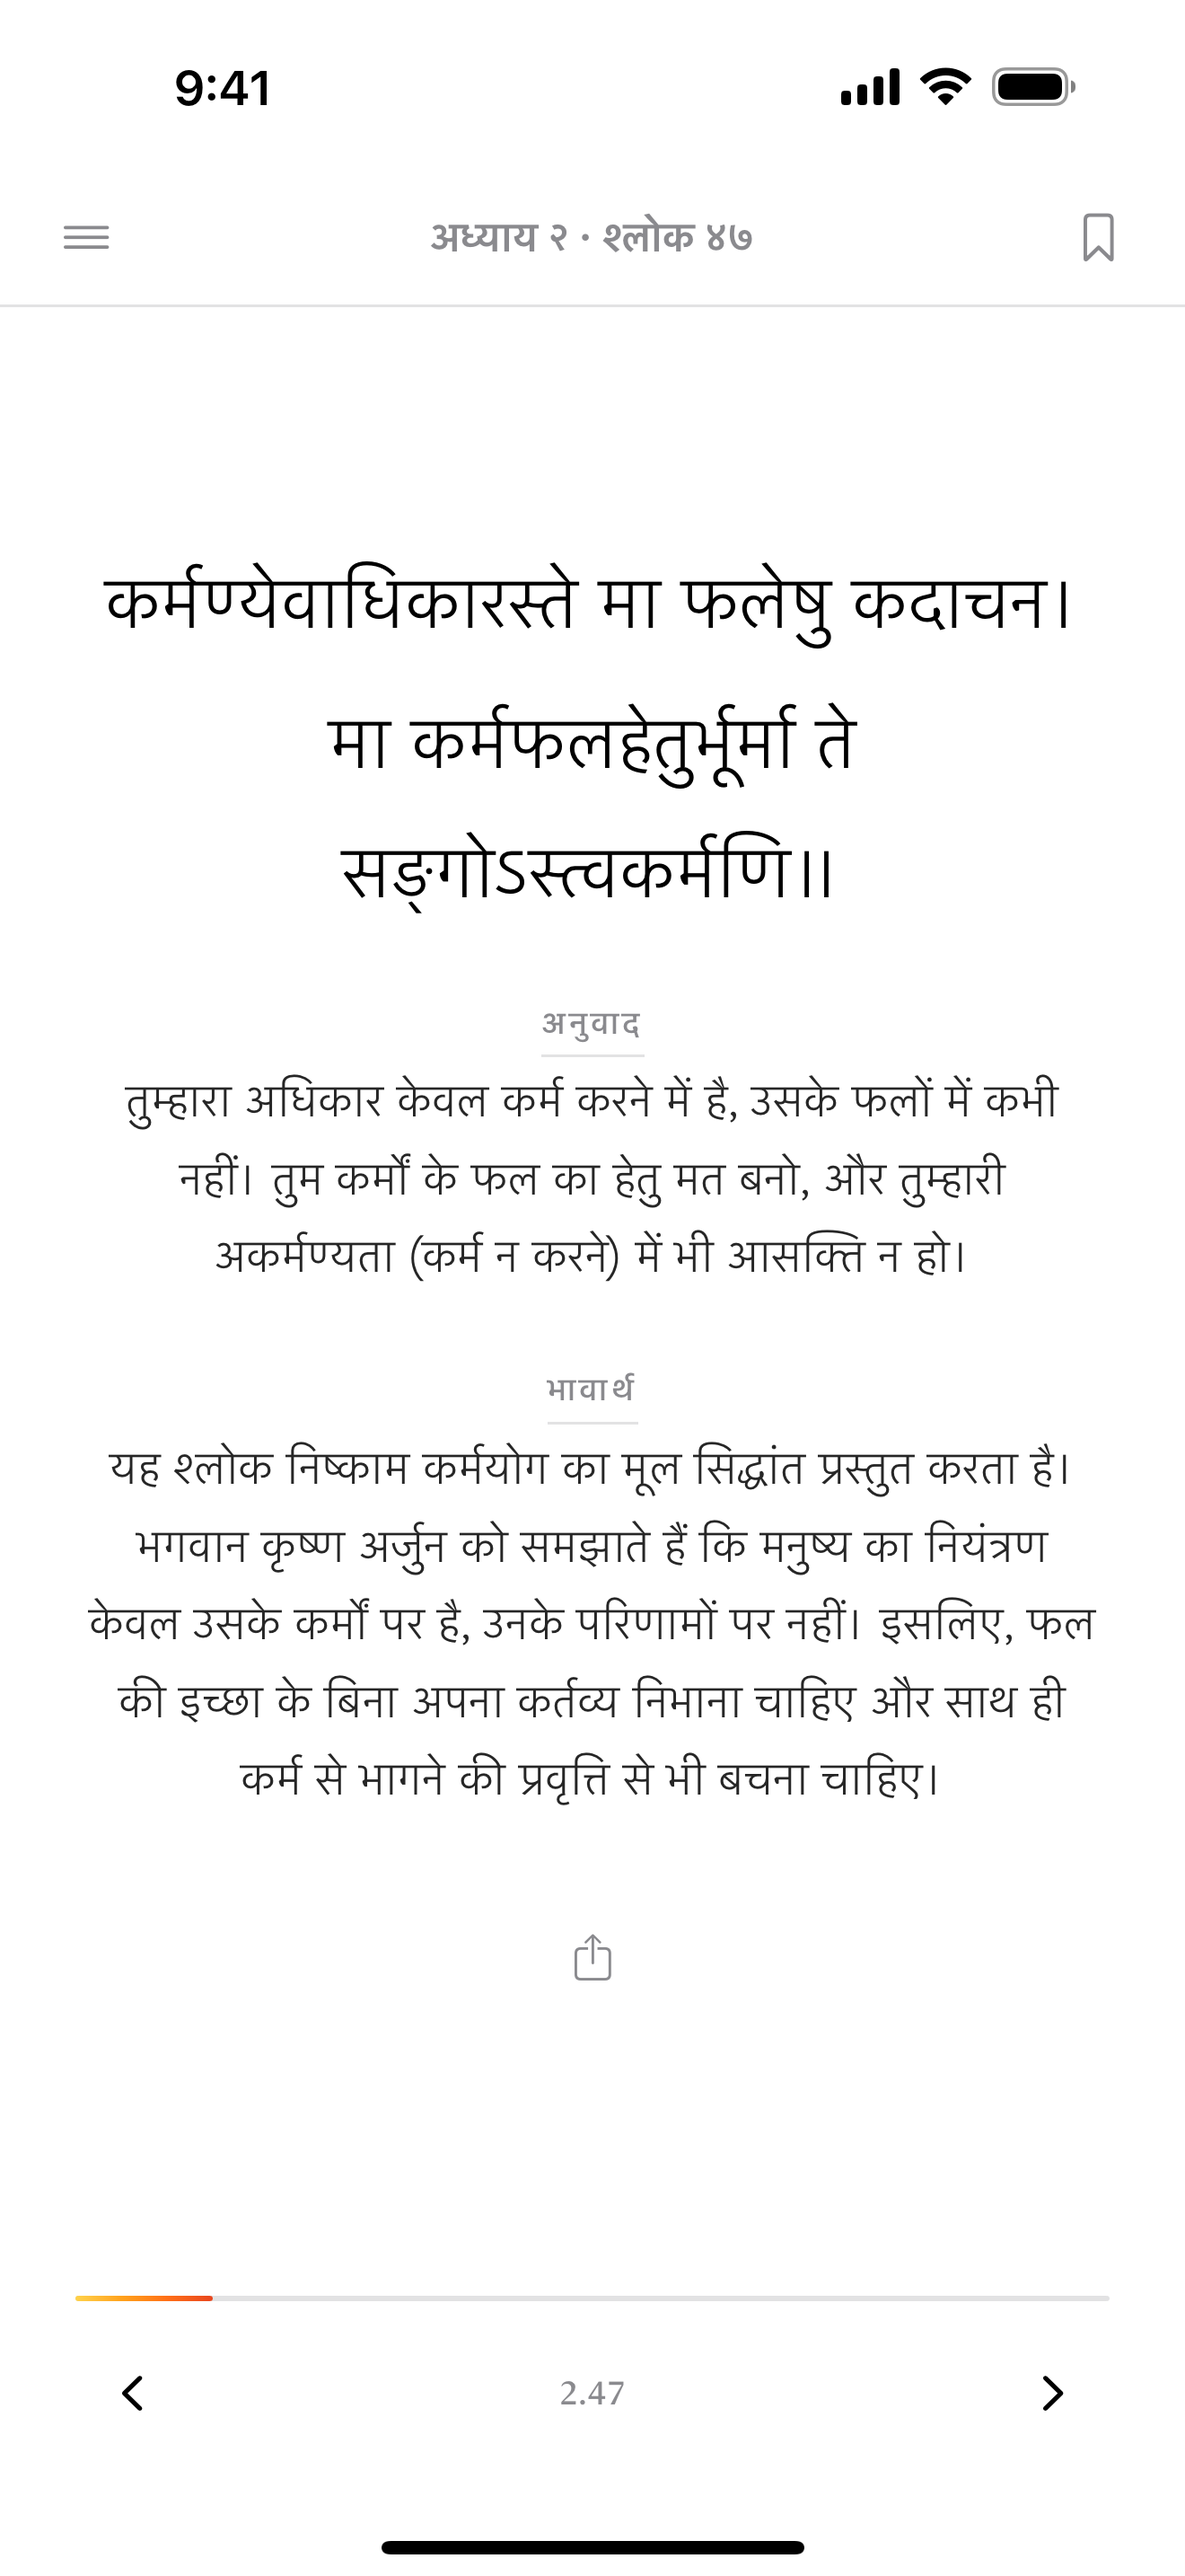
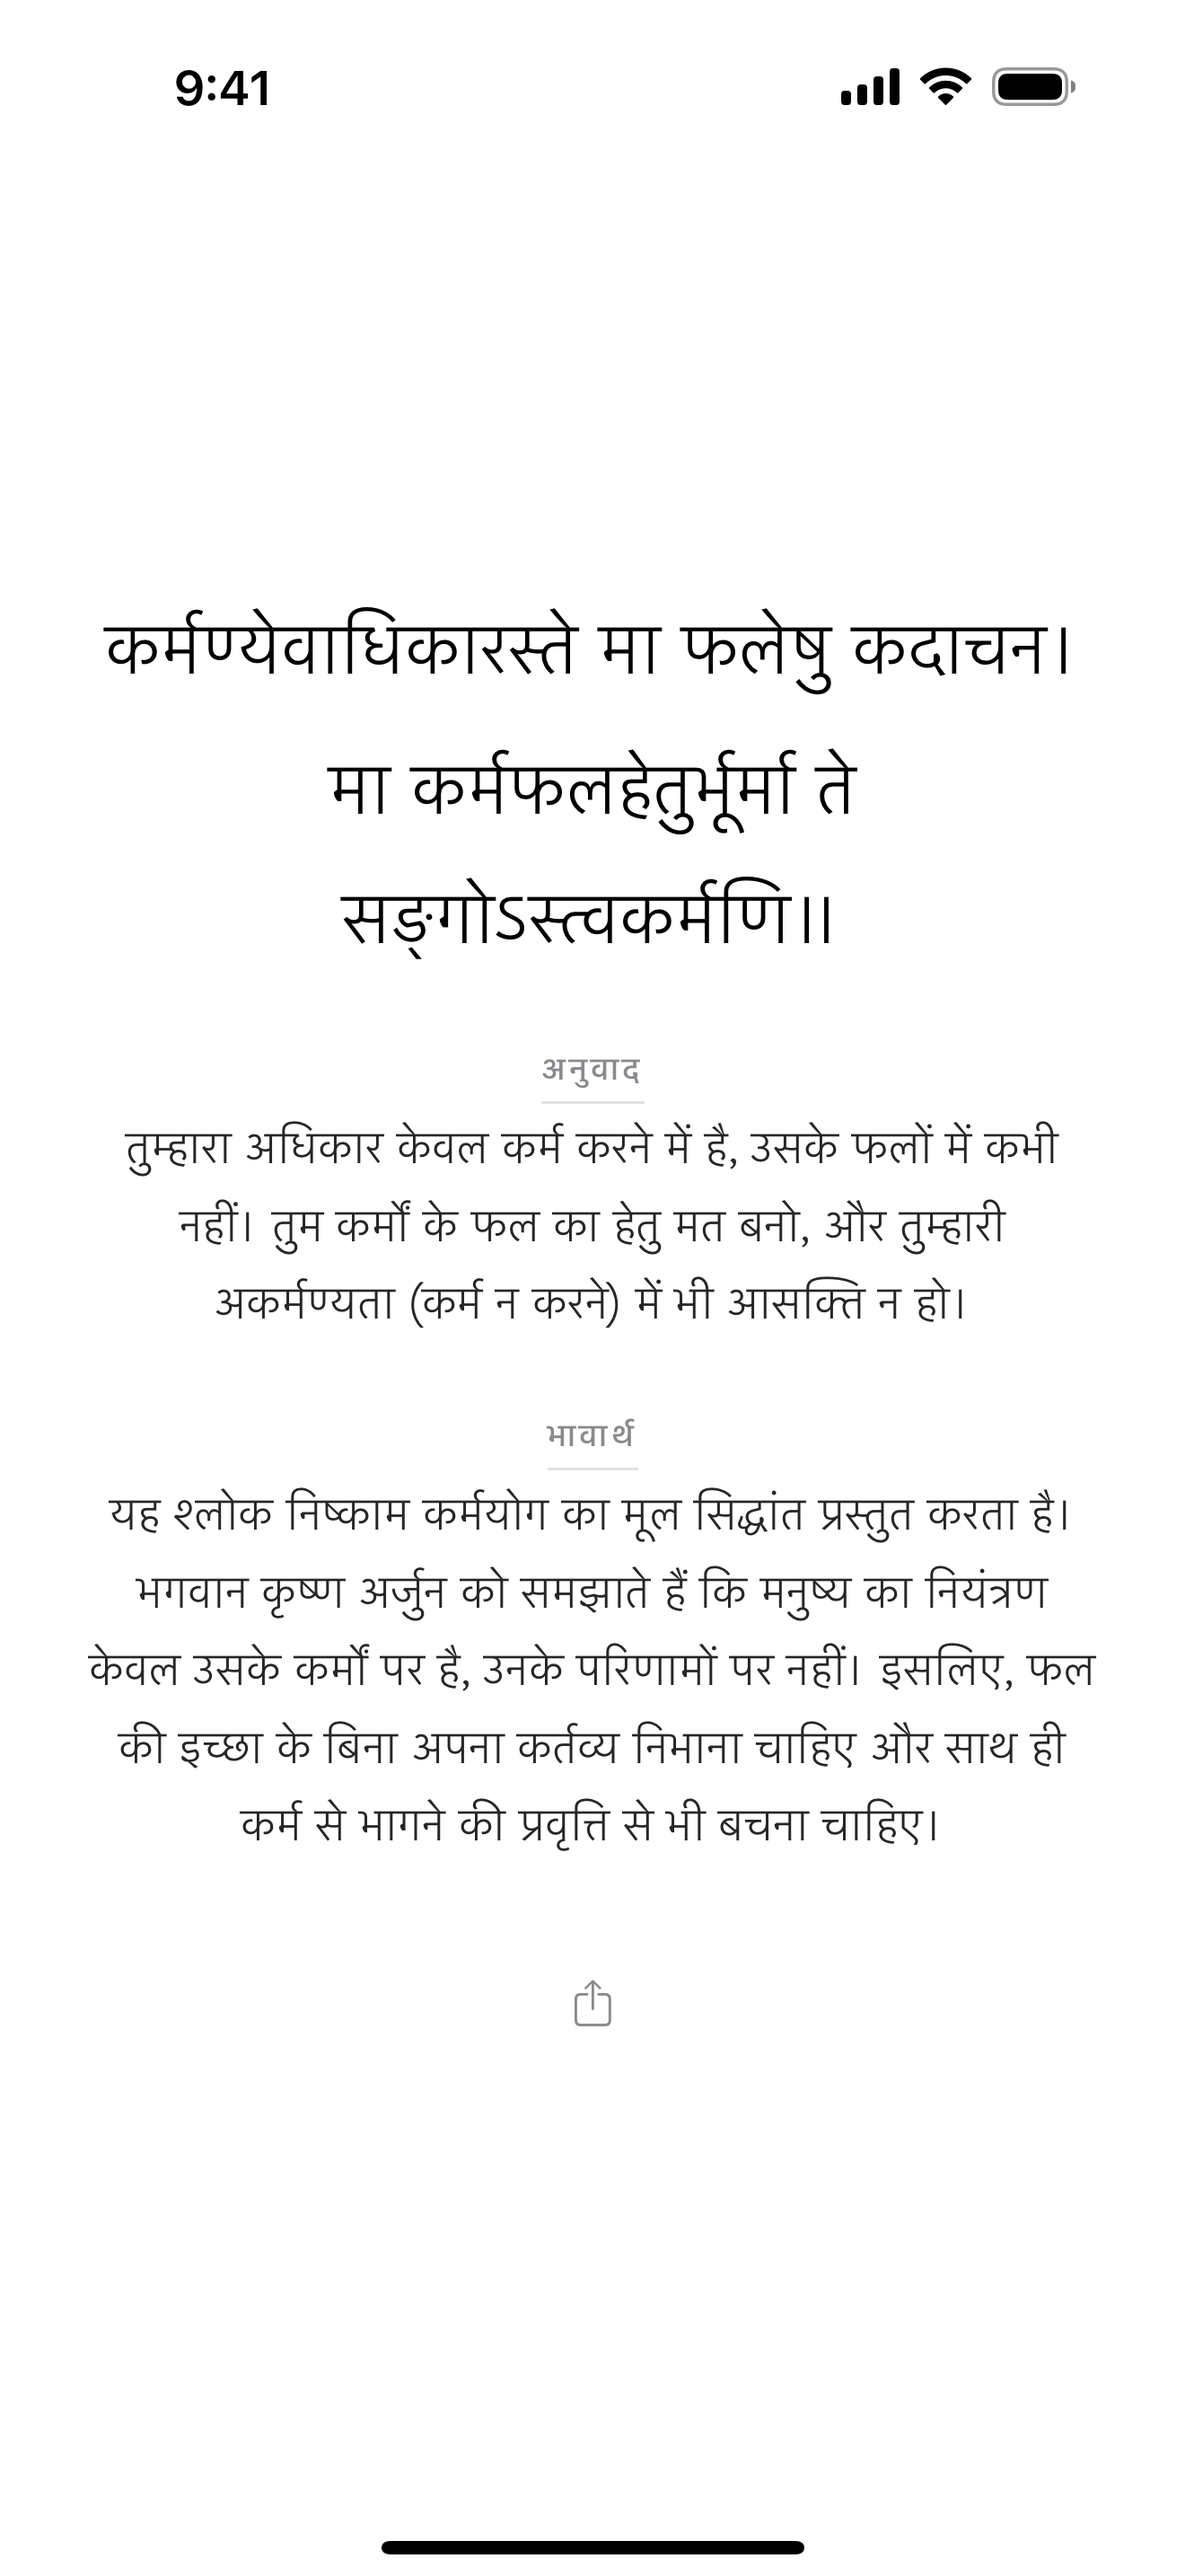
Give the welcome room, and let the screenshots sit in the page
**"Select language."** The first page said "Choose the script you read
in", which is a sentence where two words would do, and it has room above
the buttons now rather than three blocks stacked at one spacing.

**The verse page shows the verse.** It was shot with the chrome up, so
the page about the scripture carried a menu button, a chapter line and a
bookmark. Shot in immersive reading now — and after a nine-second wait,
because reaching 2.47 earns "Yours Is the Action" and the badge toast was
sitting in the middle of the picture. The bookmark page keeps its chrome:
there the mark is the point.

**The cards blend.** No border and barely a shadow, and the picture
dissolves on all four sides instead of two. A hairline round a white
screenshot on a white page draws a box where the eye wants a window.

**The iPad stops floating.** A card near the top and half the height,
so the title falls just below the middle and the space above is used —
except on the first page, which has no card and stays centred, or the
greeting hangs in the top third with nothing under it.

diff --git a/app/Gita/Gita/Features/Welcome/WelcomeView.swift b/app/Gita/Gita/Features/Welcome/WelcomeView.swift
@@ -173,8 +173,17 @@ struct WelcomeView: View {
 
     @ViewBuilder
     private func page(_ item: WelcomePage) -> some View {
-        VStack(spacing: 26) {
-            Spacer(minLength: 0)
+        VStack(spacing: isRegular ? 34 : 24) {
+            // Barely a gap above a card on a large screen: it belongs near the
+            // top, so the title falls just below the middle rather than the
+            // whole page hanging in the centre of thirteen inches. The first
+            // page has no card and stays centred, or the greeting floats in the
+            // top third with the rest of the screen empty under it.
+            if isRegular, !item.isLanguageChoice {
+                Spacer(minLength: 0).frame(maxHeight: 24)
+            } else {
+                Spacer(minLength: 0)
+            }
 
             if item.isLanguageChoice {
                 blessing
@@ -199,7 +208,10 @@ struct WelcomeView: View {
 
             // Only the first page carries a control: the one setting worth
             // asking for, at the one moment when asking is not an interruption.
-            if item.isLanguageChoice { languageChoice }
+            if item.isLanguageChoice {
+                languageChoice
+                    .padding(.top, isRegular ? 26 : 18)
+            }
 
             Spacer(minLength: 0)
         }
@@ -219,7 +231,7 @@ struct WelcomeView: View {
     /// Both scripts here and only here: the reader has not chosen one yet, and
     /// this is the page that asks. Everything after it is in their answer.
     private var blessing: some View {
-        VStack(spacing: 12) {
+        VStack(spacing: 14) {
             Text(verbatim: "आ नो भद्राः क्रतवो यन्तु विश्वतः")
                 .font(.shloka)
                 .foregroundStyle(.primary)
@@ -236,7 +248,7 @@ struct WelcomeView: View {
                 .font(.labelDevanagari)
                 .foregroundStyle(.secondary.opacity(0.8))
         }
-        .padding(.bottom, 4)
+        .padding(.bottom, isRegular ? 30 : 20)
         .accessibilityElement(children: .combine)
     }
 
@@ -298,8 +310,8 @@ struct WelcomePage: Identifiable, Sendable {
         WelcomePage(
             id: 0, symbol: "hands.sparkles",
             titleSa: "स्वागत है", titleEn: "Welcome",
-            bodySa: "पढ़ने के लिए लिपि चुनें।",
-            bodyEn: "Choose the script you read in.",
+            bodySa: "भाषा चुनें",
+            bodyEn: "Select language",
             isLanguageChoice: true
         ),
         WelcomePage(

diff --git a/app/Gita/Gita/Features/Welcome/WelcomeVignette.swift b/app/Gita/Gita/Features/Welcome/WelcomeVignette.swift
@@ -29,30 +29,44 @@ struct WelcomeVignette: View {
             // and one 320pt card left two of them mostly empty. Capped, because
             // past about 700pt a screenshot of a phone stops looking like one.
             .containerRelativeFrame([.horizontal, .vertical], alignment: .top) { length, axis in
-                axis == .horizontal ? min(length * 0.86, 700) : length * 0.54
+                axis == .horizontal ? min(length * 0.86, 700) : length * 0.50
             }
             .clipped()
+            // Dissolves on all four sides. Top and bottom because the screen
+            // carries on past the card; left and right just enough to take the
+            // hard edge off, so the shot sits *in* the page rather than on it.
             .mask(
                 LinearGradient(
                     stops: [
                         .init(color: .clear, location: 0),
-                        .init(color: .black, location: 0.09),
-                        .init(color: .black, location: 0.88),
+                        .init(color: .black, location: 0.10),
+                        .init(color: .black, location: 0.86),
                         .init(color: .clear, location: 1),
                     ],
                     startPoint: .top, endPoint: .bottom
                 )
             )
+            .mask(
+                LinearGradient(
+                    stops: [
+                        .init(color: .clear, location: 0),
+                        .init(color: .black, location: 0.04),
+                        .init(color: .black, location: 0.96),
+                        .init(color: .clear, location: 1),
+                    ],
+                    startPoint: .leading, endPoint: .trailing
+                )
+            )
+            // No border and barely a shadow. A hairline round a white
+            // screenshot on a white page draws a box where the eye wants a
+            // window; the faintest lift is enough to say the shot is nearer
+            // than the page.
             .background {
                 RoundedRectangle(cornerRadius: 26, style: .continuous)
                     .fill(.white)
-                    .shadow(color: .black.opacity(0.13), radius: 20, y: 8)
+                    .shadow(color: .black.opacity(0.07), radius: 24, y: 10)
             }
             .clipShape(RoundedRectangle(cornerRadius: 26, style: .continuous))
-            .overlay {
-                RoundedRectangle(cornerRadius: 26, style: .continuous)
-                    .stroke(.secondary.opacity(0.18), lineWidth: 1)
-            }
             .accessibilityHidden(true)
     }
 }

diff --git a/app/Gita/GitaUITests/WelcomeArtUITests.swift b/app/Gita/GitaUITests/WelcomeArtUITests.swift
@@ -74,14 +74,26 @@ final class WelcomeArtUITests: XCTestCase {
     }
 
     private func shootAll() throws {
-        // The book itself.
-        var app = launch([])
-        XCTAssertTrue(app.staticTexts["verseReference"].waitForExistence(timeout: 15))
+        // The book itself — in immersive reading, so the shot is the verse and
+        // nothing else. With the chrome up it carried a menu button, a chapter
+        // line and a bookmark, none of which that page is about.
+        var app = launch(["-immersive"])
+        Thread.sleep(forTimeInterval: 2)
+        app.coordinate(withNormalizedOffset: CGVector(dx: 0.5, dy: 0.97)).tap()   // reveal
+        XCTAssertTrue(app.buttons["menuButton"].waitForExistence(timeout: 10))
         openVerse(2, 47, in: app)
+        // Long enough for two things: the chrome to fade back out, and the
+        // badge toast to go. Reading 2.47 earns "Yours Is the Action", and it
+        // was sitting in the middle of the screenshot.
+        Thread.sleep(forTimeInterval: 9)
         try capture("scripture")
 
-        // Bookmarking, caught with the bookmark on.
+        // Bookmarking, where the mark is the whole point, so the chrome stays.
+        app = launch([])
+        XCTAssertTrue(app.staticTexts["verseReference"].waitForExistence(timeout: 15))
+        openVerse(2, 47, in: app)
         app.buttons["bookmarkButton"].tap()
+        Thread.sleep(forTimeInterval: 6)          // the same toast, again
         try capture("bookmark")
 
         // Where the verses are.
